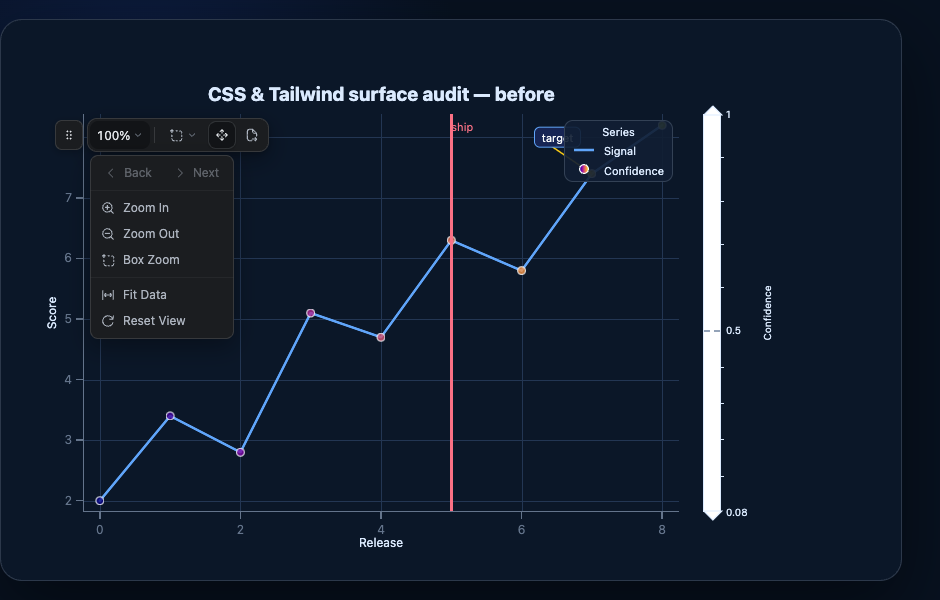
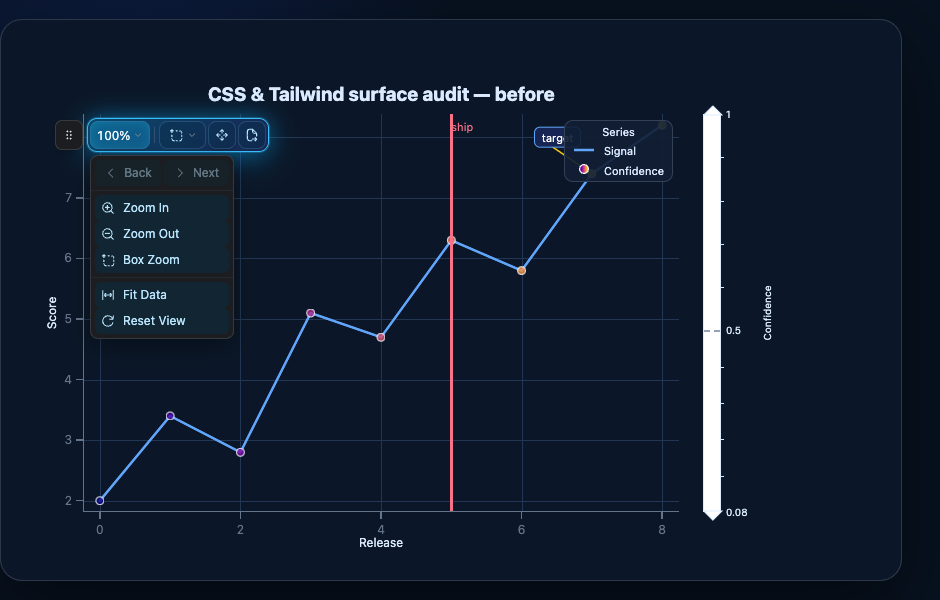
Make toolbar evidence fully blue and glowing

Changed region(s): [[0.0617, 0.18, 0.3085, 0.3], [0.0926, 0.33, 0.1851, 0.45], [0.0926, 0.48, 0.1851, 0.54]]

diff --git a/scripts/css_tailwind_slot_evidence.py b/scripts/css_tailwind_slot_evidence.py
@@ -14,6 +14,8 @@ SLOT_CLASSES = {
     "colorbar_extension": "tw-colorbar-extension",
     "colorbar_line": "tw-colorbar-line",
     "colorbar_minor_tick": "tw-colorbar-minor-tick",
+    "modebar": "tw-modebar",
+    "modebar_button": "tw-modebar-button",
     "modebar_drag_handle": "tw-modebar-drag-handle",
     "modebar_control_group": "tw-modebar-control-group",
     "modebar_separator": "tw-modebar-separator",
@@ -38,40 +40,75 @@ UTILITY_CSS = """
   .tw-colorbar-extension { fill: #f97316; stroke: #fed7aa; stroke-width: 2px; }
   .tw-colorbar-line { border-color: #22d3ee; }
   .tw-colorbar-minor-tick { border-color: #a78bfa; }
+  .tw-modebar {
+    background: linear-gradient(135deg, rgb(12 74 110 / 96%), rgb(23 37 84 / 98%));
+    color: #e0f2fe;
+    border: 1px solid #38bdf8;
+    box-shadow:
+      0 0 0 1px rgb(56 189 248 / 25%),
+      0 0 22px rgb(14 165 233 / 45%),
+      0 10px 30px rgb(2 132 199 / 28%);
+  }
+  .tw-modebar-button {
+    color: #bae6fd;
+    border-color: rgb(125 211 252 / 18%);
+    background: rgb(8 47 73 / 45%);
+  }
+  .tw-modebar-button:hover,
+  .tw-modebar-button[aria-expanded="true"] {
+    color: #f0f9ff;
+    background: rgb(14 165 233 / 28%);
+    box-shadow: inset 0 0 12px rgb(34 211 238 / 20%);
+  }
   .tw-modebar-drag-handle {
-    background: #db2777;
-    color: #fff;
-    border: 2px solid #f9a8d4;
+    background: linear-gradient(135deg, #0284c7, #1d4ed8);
+    color: #f0f9ff;
+    border: 2px solid #67e8f9;
     border-radius: 9999px;
-    box-shadow: 0 0 0 4px rgb(219 39 119 / 22%);
+    box-shadow:
+      0 0 0 4px rgb(14 165 233 / 22%),
+      0 0 22px rgb(34 211 238 / 72%);
   }
   .tw-modebar-control-group {
     gap: 5px;
     padding: 2px;
-    border: 1px solid rgb(56 189 248 / 35%);
+    border: 1px solid rgb(103 232 249 / 55%);
     border-radius: 8px;
+    background: rgb(8 47 73 / 32%);
+    box-shadow: inset 0 0 12px rgb(34 211 238 / 12%);
   }
-  .tw-modebar-separator { width: 2px; background: #38bdf8; }
-  .tw-modebar-icon { color: #facc15; }
+  .tw-modebar-separator {
+    width: 2px;
+    background: #67e8f9;
+    box-shadow: 0 0 8px rgb(34 211 238 / 70%);
+  }
+  .tw-modebar-icon { color: #7dd3fc; }
   .tw-modebar-zoom-value { color: #f8fafc; font-weight: 800; }
-  .tw-modebar-indicator { color: #38bdf8; }
-  .tw-modebar-selection-icon { color: #f472b6; }
+  .tw-modebar-indicator { color: #67e8f9; }
+  .tw-modebar-selection-icon { color: #38bdf8; }
   .tw-modebar-menu {
     width: 176px;
-    background: #172554;
+    background: linear-gradient(180deg, #172554, #0c4a6e);
     color: #e0f2fe;
     border: 2px solid #38bdf8;
     border-radius: 14px;
     padding: 7px;
-    box-shadow: 0 16px 40px rgb(8 47 73 / 45%);
+    box-shadow:
+      0 0 24px rgb(34 211 238 / 35%),
+      0 16px 40px rgb(8 47 73 / 45%);
   }
-  .tw-modebar-menu-separator { background: #38bdf8; margin-block: 6px; }
-  .tw-modebar-menu-icon { color: #f472b6; }
+  .tw-modebar-menu-separator {
+    background: #67e8f9;
+    margin-block: 6px;
+    box-shadow: 0 0 8px rgb(34 211 238 / 55%);
+  }
+  .tw-modebar-menu-icon { color: #7dd3fc; }
   .tw-modebar-menu-label { color: #e0f2fe; font-weight: 700; letter-spacing: .01em; }
   .tw-modebar-history-controls {
     padding: 3px;
     border-radius: 8px;
-    background: rgb(14 116 144 / 30%);
+    background: rgb(14 116 144 / 42%);
+    box-shadow: inset 0 0 12px rgb(34 211 238 / 16%);
   }
   .tw-axis-band { cursor: crosshair; }
   .tw-axis-line { background: #fb7185; }
